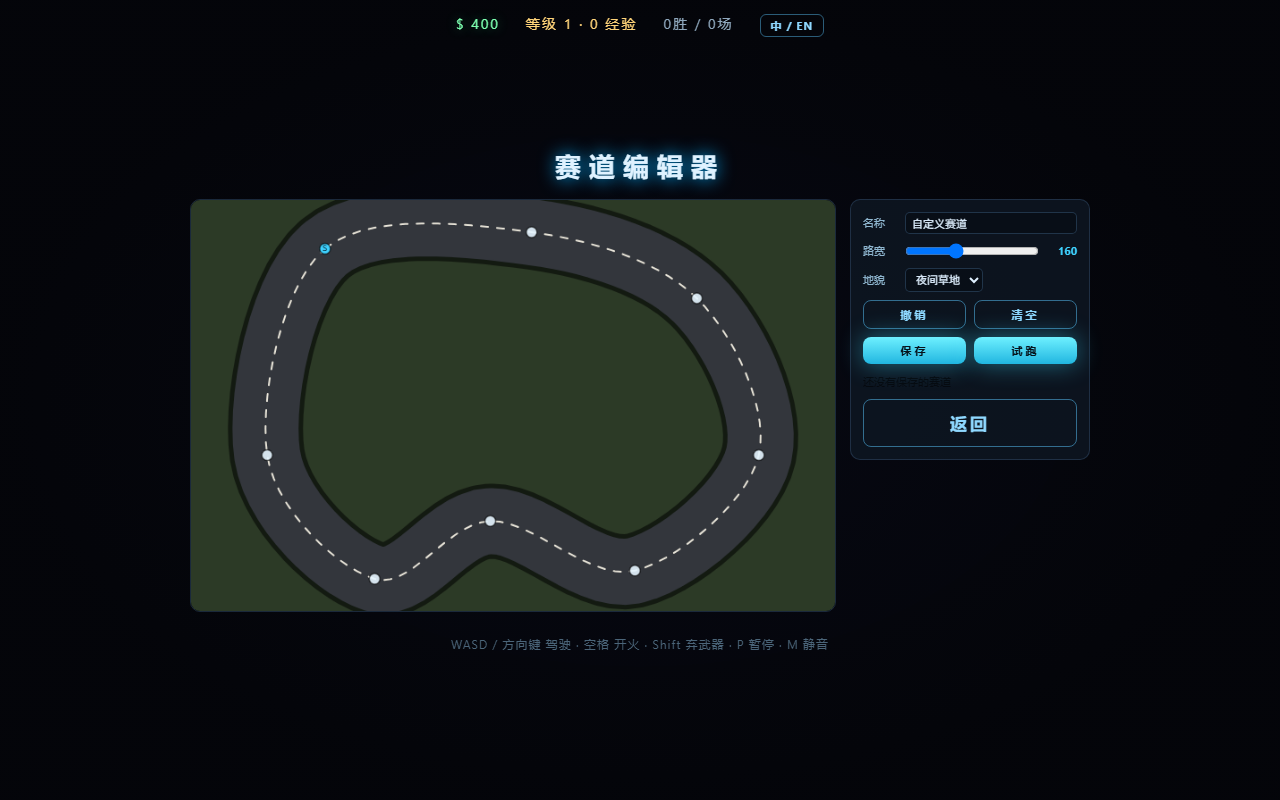
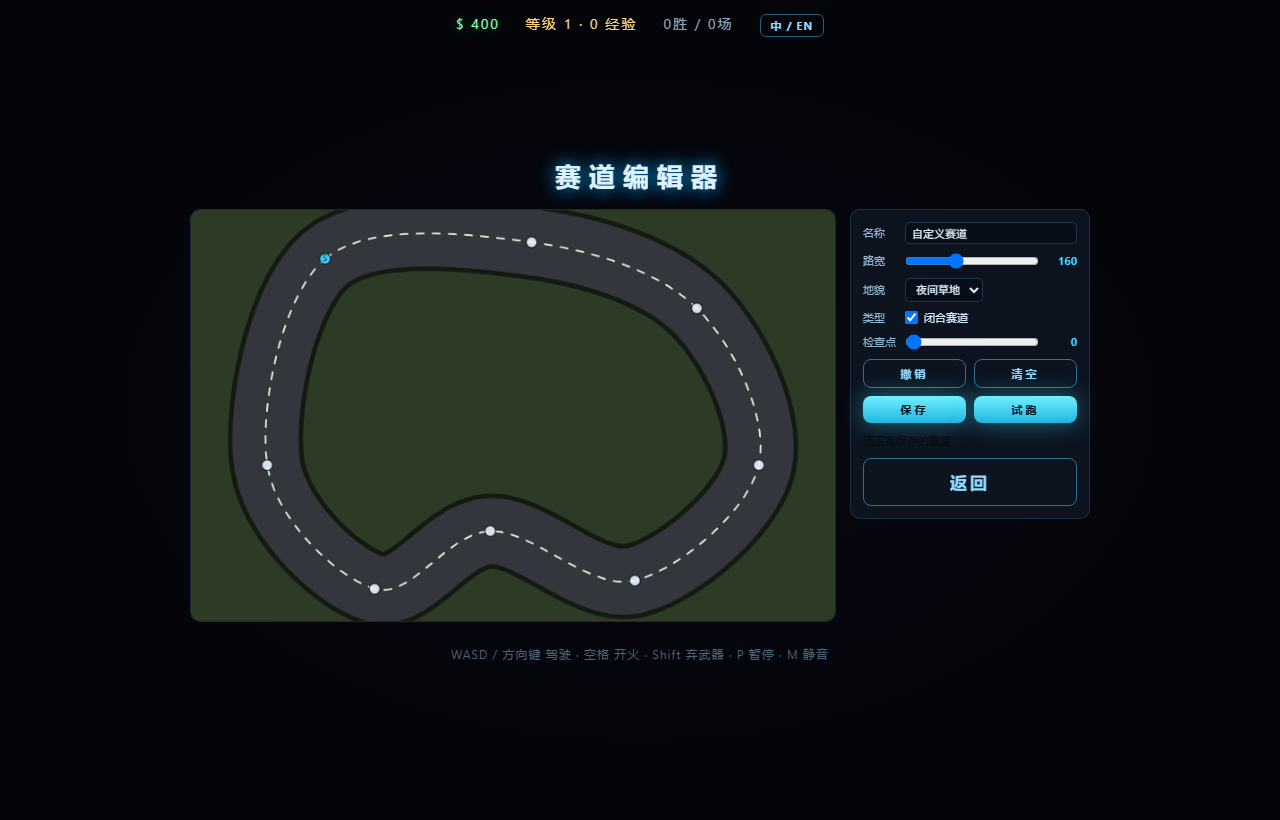
fix(android): GPU crash, bake stall, viewport crop, camera clamp

diff --git a/js/game.js b/js/game.js
@@ -48,7 +48,9 @@
   const rand = (a, b) => a + Math.random() * (b - a);
   const pick = (arr) => arr.length ? arr[(Math.random() * arr.length) | 0] : '';
 
-  const TALK = (CONTENT.dialogue || []).filter(s => s.length >= 12 && s.length <= 120);
+  // 过滤掉带 %d 之类占位符的原始文案（游戏内文案是格式化字符串）
+  const TALK = (CONTENT.dialogue || [])
+    .filter(s => s.length >= 12 && s.length <= 120 && s.indexOf('%') < 0 && s.indexOf('$') < 0);
   const UI = CONTENT.ui_labels || [];
 
   // ---------- 输入 ----------
@@ -384,6 +386,22 @@
   }
 
   function startRace(trackIdx, opts) {
+    const idx = trackIdx == null ? G.selectedTrack : trackIdx;
+    const def = TRACKS[idx] || {};
+    const cached = G.mapCache && def.name && G.mapCache[def.name];
+    if (opts && opts.defer && !cached && typeof Terrain !== 'undefined') {
+      // 先让加载提示绘制出来，再烘焙地图（烘焙是同步且较慢的）
+      const el = document.getElementById('loading');
+      if (el) el.classList.remove('hidden');
+      setTimeout(() => {
+        try { startRaceNow(trackIdx, opts); } finally { if (el) el.classList.add('hidden'); }
+      }, 60);
+      return;
+    }
+    startRaceNow(trackIdx, opts);
+  }
+
+  function startRaceNow(trackIdx, opts) {
     opts = opts || {};
     G.career = opts.career || null;
     G.collisions = 0;
@@ -955,14 +973,22 @@
     last = now;
     resizeCanvas();   // 每帧自愈：窗口/视口变化都能跟上
     fpsAcc += dt; fpsFrames++;
+
     if (fpsAcc >= 0.5) {
       fpsShown = Math.round(fpsFrames / fpsAcc);
       fpsAcc = 0; fpsFrames = 0;
       const el = document.getElementById('fps');
       if (el) el.textContent = fpsShown + ' FPS';
     }
-    update(dt);
-    render(now / 1000);
+    try {
+      update(dt);
+      render(now / 1000);
+    } catch (err) {
+      G._err = (err && err.stack) ? err.stack.split('\n').slice(0, 3).join(' | ') : String(err);
+      try { console.log('FRAME_ERR ' + G._err); } catch (e) {}
+      const ed = document.getElementById('fps');
+      if (ed) ed.textContent = 'ERR ' + String(err).slice(0, 60);
+    }
     requestAnimationFrame(frame);
   }
 
@@ -1036,6 +1062,15 @@
     const aheadY = p.y + Math.sin(p.angle) * Math.min(160, p.speed * 0.42);
     G.camX = lerp(G.camX, aheadX, 1 - Math.pow(0.0009, dt));
     G.camY = lerp(G.camY, aheadY, 1 - Math.pow(0.0009, dt));
+
+    // 相机钳制在地图范围内，避免露出地图外的纯色区域
+    if (G.map) {
+      const halfW = (VW / ZOOM) / 2, halfH = (VH / ZOOM) / 2;
+      const minX = G.map.x + halfW, maxX = G.map.x + G.map.w - halfW;
+      const minY = G.map.y + halfH, maxY = G.map.y + G.map.h - halfH;
+      G.camX = (maxX > minX) ? Math.max(minX, Math.min(maxX, G.camX)) : G.map.x + G.map.w / 2;
+      G.camY = (maxY > minY) ? Math.max(minY, Math.min(maxY, G.camY)) : G.map.y + G.map.h / 2;
+    }
 
     // 粒子
     for (let i = G.particles.length - 1; i >= 0; i--) {
@@ -1137,9 +1172,20 @@
       ctx.fillRect(G.camX - halfW, G.camY - halfH, halfW * 2, halfH * 2);
     }
 
-    // 预烘焙地图
+    // 预烘焙地图：只绘制可视区域（避免整张大图每帧上传 GPU）
     if (G.map) {
-      ctx.drawImage(G.map.canvas, G.map.x, G.map.y);
+      const halfW = (VW / Z) / 2, halfH = (VH / Z) / 2;
+      const left = Math.max(G.map.x, G.camX - halfW);
+      const top = Math.max(G.map.y, G.camY - halfH);
+      const right = Math.min(G.map.x + G.map.w, G.camX + halfW);
+      const bottom = Math.min(G.map.y + G.map.h, G.camY + halfH);
+      if (right > left && bottom > top) {
+        ctx.drawImage(
+          G.map.canvas,
+          left - G.map.x, top - G.map.y, right - left, bottom - top,
+          left, top, right - left, bottom - top
+        );
+      }
     }
 
     // 拾取物
@@ -1233,7 +1279,7 @@
       const dw = G.map.w * s2, dh = G.map.h * s2;
       const ox = bx + (size - dw) / 2;
       const oy = by + (size - dh) / 2;
-      ctx.drawImage(G.map.canvas, ox, oy, dw, dh);
+      ctx.drawImage(G.map.thumb || G.map.canvas, ox, oy, dw, dh);
 
       // 车手位置
       for (const c of G.cars) {
@@ -1342,7 +1388,7 @@
     const st = Meta.champState(champId);
     if (!st.started) Meta.startChamp(champId);
     const ev = Meta.nextEvent(champId);
-    startRace(ev.track, { career: { champId: champId }, laps: ev.laps, skill: ev.skill });
+    startRace(ev.track, { career: { champId: champId }, laps: ev.laps, skill: ev.skill, defer: true });
   }
 
   function statBar(label, v) {
@@ -1636,7 +1682,7 @@
     else showView('home');
   };
 
-  $('startBtn').onclick = () => { audioInit(); if (SND) SND.uiConfirm(); startRace(G.selectedTrack, {}); };
+  $('startBtn').onclick = () => { audioInit(); if (SND) SND.uiConfirm(); startRace(G.selectedTrack, { defer: true }); };
   $('resumeBtn').onclick = () => { if (SND) SND.uiClick(); togglePause(); };
   $('quitBtn').onclick = () => toMenu();
   $('menuBtn').onclick = () => toMenu();
@@ -1754,6 +1800,19 @@
   }
 
   requestAnimationFrame(frame);
+
+  if (location.search.includes('clickstart')) {
+    setTimeout(() => {
+      try {
+        const tm = /ctrack=(\d+)/.exec(location.search);
+        if (tm) G.selectedTrack = parseInt(tm[1], 10);
+        document.getElementById('startBtn').click();
+        document.title = 'CLICKED track=' + G.selectedTrack + ' state=' + G.state;
+      } catch (e) {
+        document.title = 'CLICKERR ' + e.message;
+      }
+    }, 600);
+  }
 
   if (location.search.includes('dbgstate')) {
     setTimeout(() => {

diff --git a/js/terrain.js b/js/terrain.js
@@ -104,13 +104,19 @@ const Terrain = (() => {
   function build(track, themeIdx) {
     const T = THEMES[themeIdx % THEMES.length];
     const rnd = mulberry32(20240117 + themeIdx * 3157);
+    // 移动端把细节密度降到 ~45%，避免主线程长时间阻塞
+    const MOBILE = (typeof navigator !== 'undefined') &&
+      (/Android|iPhone|iPad|Mobile/i.test(navigator.userAgent) ||
+       (typeof matchMedia === 'function' && matchMedia('(pointer: coarse)').matches));
+    const K = MOBILE ? 0.45 : 1;
+    const N = (n) => Math.max(1, Math.round(n * K));
 
     let minX = 1e9, maxX = -1e9, minY = 1e9, maxY = -1e9;
     for (const p of track.points) {
       if (p.x < minX) minX = p.x; if (p.x > maxX) maxX = p.x;
       if (p.y < minY) minY = p.y; if (p.y > maxY) maxY = p.y;
     }
-    const pad = 820;
+    const pad = 320;
     const x0 = Math.floor(minX - pad), y0 = Math.floor(minY - pad);
     const w = Math.ceil(maxX - minX + pad * 2), h = Math.ceil(maxY - minY + pad * 2);
 
@@ -164,7 +170,7 @@ const Terrain = (() => {
       stamp(rnd() < 0.5 ? blobDark : blobLight, cx, cy, 240 + rnd() * 460, 0.12 + rnd() * 0.10);
     }
     // 中尺度斑驳（细节层次）
-    for (let i = 0; i < 1400; i++) {
+    for (let i = 0; i < N(1400); i++) {
       const cx = x0 + rnd() * w, cy = y0 + rnd() * h;
       stamp(rnd() < 0.5 ? blobDark : blobLight, cx, cy, 14 + rnd() * 70, 0.10 + rnd() * 0.13);
     }
@@ -188,7 +194,7 @@ const Terrain = (() => {
       g.restore();
     }
     // 草簇（成片的明暗块，近看有层次）
-    for (let i = 0; i < 520; i++) {
+    for (let i = 0; i < N(520); i++) {
       const cx = x0 + rnd() * w, cy = y0 + rnd() * h;
       stamp(rnd() < 0.6 ? blobLight : blobDark, cx, cy, 22 + rnd() * 55, 0.10 + rnd() * 0.12);
     }
@@ -196,7 +202,7 @@ const Terrain = (() => {
     // 草丛（方向、明度、长度都有变化）
     g.save();
     g.lineCap = 'round';
-    for (let i = 0; i < 9000; i++) {
+    for (let i = 0; i < N(9000); i++) {
       const x = x0 + rnd() * w, y = y0 + rnd() * h;
       const len = 1.6 + rnd() * 4.5;
       const tone = rnd();
@@ -212,14 +218,14 @@ const Terrain = (() => {
     }
     g.restore();
     // 碎石 / 土粒
-    for (let i = 0; i < 2400; i++) {
+    for (let i = 0; i < N(2400); i++) {
       const x = x0 + rnd() * w, y = y0 + rnd() * h;
       g.fillStyle = rnd() < 0.5 ? 'rgba(132,124,108,.30)' : 'rgba(58,56,48,.30)';
       const r = 0.6 + rnd() * 2.0;
       g.beginPath(); g.arc(x, y, r, 0, Math.PI * 2); g.fill();
     }
     // 极细噪点（近看有颗粒感）
-    for (let i = 0; i < 6000; i++) {
+    for (let i = 0; i < N(6000); i++) {
       const x = x0 + rnd() * w, y = y0 + rnd() * h;
       g.fillStyle = rnd() < 0.5 ? 'rgba(255,255,255,.05)' : 'rgba(0,0,0,.06)';
       g.fillRect(x, y, 1, 1);
@@ -392,7 +398,7 @@ const Terrain = (() => {
     g.restore();
 
     // ---- 路肩碎石 ----
-    for (let i = 0; i < 2600; i++) {
+    for (let i = 0; i < N(2600); i++) {
       const s = rnd() * track.length;
       const p = track.at(s);
       const side = rnd() < 0.5 ? -1 : 1;
@@ -661,7 +667,7 @@ const Terrain = (() => {
       return c;
     }
     const bushSprites = [makeBushSprite(11), makeBushSprite(23), makeBushSprite(37), makeBushSprite(51)];
-    for (let i = 0; i < 300; i++) {
+    for (let i = 0; i < N(300); i++) {
       const x = x0 + rnd() * w, y = y0 + rnd() * h;
       if (roadDist(x, y) < W / 2 + 30) continue;
       const sc = 0.55 + rnd() * 0.9;
@@ -670,7 +676,7 @@ const Terrain = (() => {
     }
 
     // 树 / 岩石
-    for (let i = 0; i < 340; i++) {
+    for (let i = 0; i < N(340); i++) {
       const x = x0 + rnd() * w, y = y0 + rnd() * h;
       if (roadDist(x, y) < W / 2 + 44) continue;
       const sc = 0.75 + rnd() * 0.85;
@@ -680,7 +686,7 @@ const Terrain = (() => {
       else blob(rockSprites[(rnd() * 2) | 0], x, y, sc * 0.8, 1);
     }
     // 木桶
-    for (let i = 0; i < 200; i++) {
+    for (let i = 0; i < N(200); i++) {
       const s = rnd() * track.length;
       const p = track.at(s);
       const side = rnd() < 0.5 ? -1 : 1;
@@ -829,7 +835,15 @@ const Terrain = (() => {
     g.fillStyle = light;
     g.fillRect(x0, y0, w, h);
 
-    return { canvas: cv, x: x0, y: y0, w: w, h: h, theme: T };
+    // 小地图缩略图（避免每帧缩放整张大图）
+    const thumbSize = 256;
+    const tScale = Math.min(thumbSize / w, thumbSize / h);
+    const thumb = document.createElement('canvas');
+    thumb.width = Math.max(1, Math.round(w * tScale));
+    thumb.height = Math.max(1, Math.round(h * tScale));
+    thumb.getContext('2d').drawImage(cv, 0, 0, thumb.width, thumb.height);
+
+    return { canvas: cv, x: x0, y: y0, w: w, h: h, theme: T, thumb: thumb };
   }
 
   return { build, THEMES };

diff --git a/index.html b/index.html
@@ -2,7 +2,7 @@
 <html lang="zh-CN">
 <head>
 <meta charset="utf-8">
-<meta name="viewport" content="width=980">
+<meta name="viewport" content="width=device-width, initial-scale=1, maximum-scale=1, user-scalable=no, viewport-fit=cover">
 <title>K-RALLY 重制版</title>
 <link rel="stylesheet" href="style.css">
 </head>
@@ -155,6 +155,9 @@
     <div class="toast hidden" id="toast"></div>
     <p class="hint" data-i18n="hint">WASD / 方向键 驾驶 · 空格 开火 · Shift 弃武器 · P 暂停 · M 静音</p>
   </div>
+
+  <!-- 赛道加载提示 -->
+  <div class="loading hidden" id="loading"><span>生成赛道…</span></div>
 
   <!-- 发车界面 -->
   <div class="lineup hidden" id="lineup">

diff --git a/style.css b/style.css
@@ -283,3 +283,8 @@ button:disabled { opacity:.4; cursor:not-allowed; }
   padding:1px 6px; border-radius:4px; cursor:pointer; box-shadow:none; }
 .ed-check { display:flex; align-items:center; gap:6px; font-size:11px; color:#cfe4f5; }
 .ed-check input { width:auto; }
+.loading { position:fixed; inset:0; display:flex; align-items:center; justify-content:center; z-index:60;
+  background:#05080d; color:#8fd8ff; font-size:14px; letter-spacing:3px; }
+.loading.hidden { display:none; }
+.loading span { animation:pulse 1.1s ease-in-out infinite; }
+@keyframes pulse { 0%,100%{opacity:.45} 50%{opacity:1} }

diff --git a/js/art.js b/js/art.js
@@ -1,6 +1,6 @@
 // art.js - 写实俯视车辆 + 特效（全部程序化绘制）
 const Art = (() => {
-  const SS = 4;                 // 精灵超采样倍数
+  const SS = 3;                 // 精灵超采样倍数
   let carShadowSprite = null;
   const spriteCache = new Map();
 

diff --git a/android/java/com/krally/remake/MainActivity.java b/android/java/com/krally/remake/MainActivity.java
@@ -6,7 +6,9 @@ import android.view.View;
 import android.view.WindowManager;
 import android.webkit.WebSettings;
 import android.webkit.WebView;
+import android.webkit.ConsoleMessage;
 import android.webkit.WebChromeClient;
+import android.util.Log;
 
 public class MainActivity extends Activity {
     private WebView web;
@@ -31,8 +33,17 @@ public class MainActivity extends Activity {
         s.setSupportZoom(false);
         s.setBuiltInZoomControls(false);
 
-        web.setWebChromeClient(new WebChromeClient());
+        WebView.setWebContentsDebuggingEnabled(true);
+        web.setWebChromeClient(new WebChromeClient() {
+            @Override
+            public boolean onConsoleMessage(ConsoleMessage cm) {
+                Log.i("KRALLY_JS", cm.messageLevel() + ": " + cm.message() + " @" + cm.lineNumber());
+                return true;
+            }
+        });
         web.setBackgroundColor(0xFF08090F);
+        // 设备 GPU 在绘制大尺寸 canvas 时会 SIGSEGV（Chrome_InProcGp），改用软件渲染保证稳定
+        web.setLayerType(View.LAYER_TYPE_SOFTWARE, null);
         web.loadUrl("file:///android_asset/index.html");
         setContentView(web);
         hideSystemBars();

diff --git a/CHANGELOG.md b/CHANGELOG.md
@@ -1,5 +1,29 @@
 # 更新日志
 
+## v0.4.1 — 真机修复
+
+> 在 OnePlus 7T Pro（Android 12，2340×1080）实测并修复。
+
+### 崩溃修复
+- **WebView GPU 线程 SIGSEGV**（`Fatal signal 11 … Chrome_InProcGp`）：大尺寸 canvas 在硬件加速下崩溃。改为 `LAYER_TYPE_SOFTWARE` 软件渲染后稳定（30 FPS）。
+- 地图改为**只绘制可视区域**（源矩形裁剪），不再每帧上传整张 2400×1900 贴图。
+- 小地图改用预生成的 256px 缩略图，不再每帧缩放整张大图。
+- 车辆精灵超采样 4× → 3×，纹理内存减半。
+
+### 卡顿修复
+- 地图烘焙在主线程同步执行，手机上要数秒，看起来像卡死。现在**先显示「生成赛道…」加载页**，再延迟一帧烘焙。
+- 触屏设备把地面细节密度降到 **45%**（草叶/碎石/斑驳/树木数量），烘焙时间大幅缩短。
+- 地图留白 420 → 320，进一步减少像素量。
+
+### 显示修复
+- 视口从固定 `width=980` 改为 `width=device-width`：真机上不再右侧裁切、按钮可正常点击。
+- 相机**钳制在地图范围内**，不再露出地图外的纯色边（先前看起来像左右黑边）。
+- 过滤掉原作文案里带 `%d` / ` 的格式化占位符台词（曾显示 “win this race and take $%d”）。
+
+### 其它
+- 主循环加异常兜底：单帧异常不会终止 rAF 链，错误显示在 HUD 上便于排查。
+- Android 端打开 WebView 调试并把 JS 控制台输出到 logcat（`KRally_JS`），便于真机排错。
+
 ## v0.4.0 — 开放赛道 / 检查点 / 多圈幽灵
 
 ### 赛道：闭合 / 开放
@@ -37,21 +61,3 @@
 - 名称 / 路宽 (120–230) / 地貌（8 套主题）可调，可保存到本地列表、载入、删除。
 - 「试跑」立即用当前参数开赛；保存的自定义赛道也会出现在快速比赛的赛道列表里。
 
-
-## v0.2.0 — 结算曲线 & 对手车况
-
-### 新增
-- **结算名次变化曲线**：每 0.5s 采样一次实时排名，结算界面用 4 条车手色曲线还原「谁在哪一段超了谁」；3 点中值平滑压掉并排换位造成的锯齿。
-- **对手车况卡**：点击左侧名次条的任意车手，弹出该车手头像、车型、圈数、速度、当前武器与弹药、剩余血量。
-- **MIT 许可证**：代码与原创美术、音效以 MIT 发布；README 增加版权声明（原作文字仅用于技术研究）。
-
-
-## v0.1.0 — 首个可玩版本
-
-### 玩法
-- 14 名车手全员登场（名字取自原作解包文本），每人独立配色、车号、车型与战术性格
-- 每个车手独立生涯：现金、车库、改装、三档锦标赛进度、最好圈、胜场、冠军数互不干扰
-- 车手特权影响手感与经济（极速/加速/抓地/抗撞/奖金/经验/道具范围），AI 车手同样生效
-- 车手选择界面：排名列表 + 头像 + 详情（赞助商、特权、战绩、数值条）
-- 9 条赛道 + 8 套地貌（夜间草地 / 荒漠 / 雪原 / 沙漠 / 丛林 / 码头 / 红岩 / 秋林）
-- 生涯三档锦标赛、车库改装、商店购车
